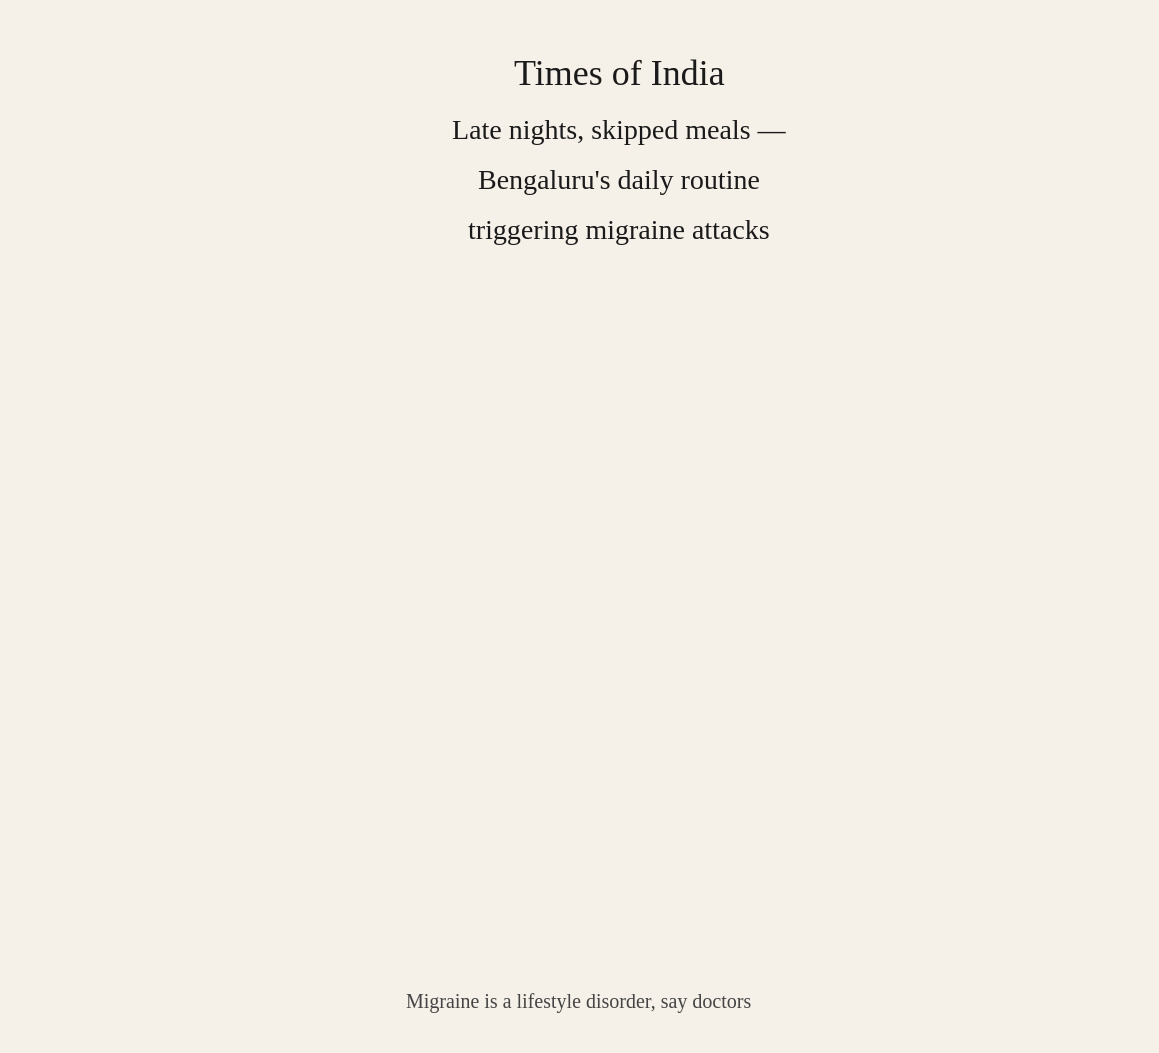
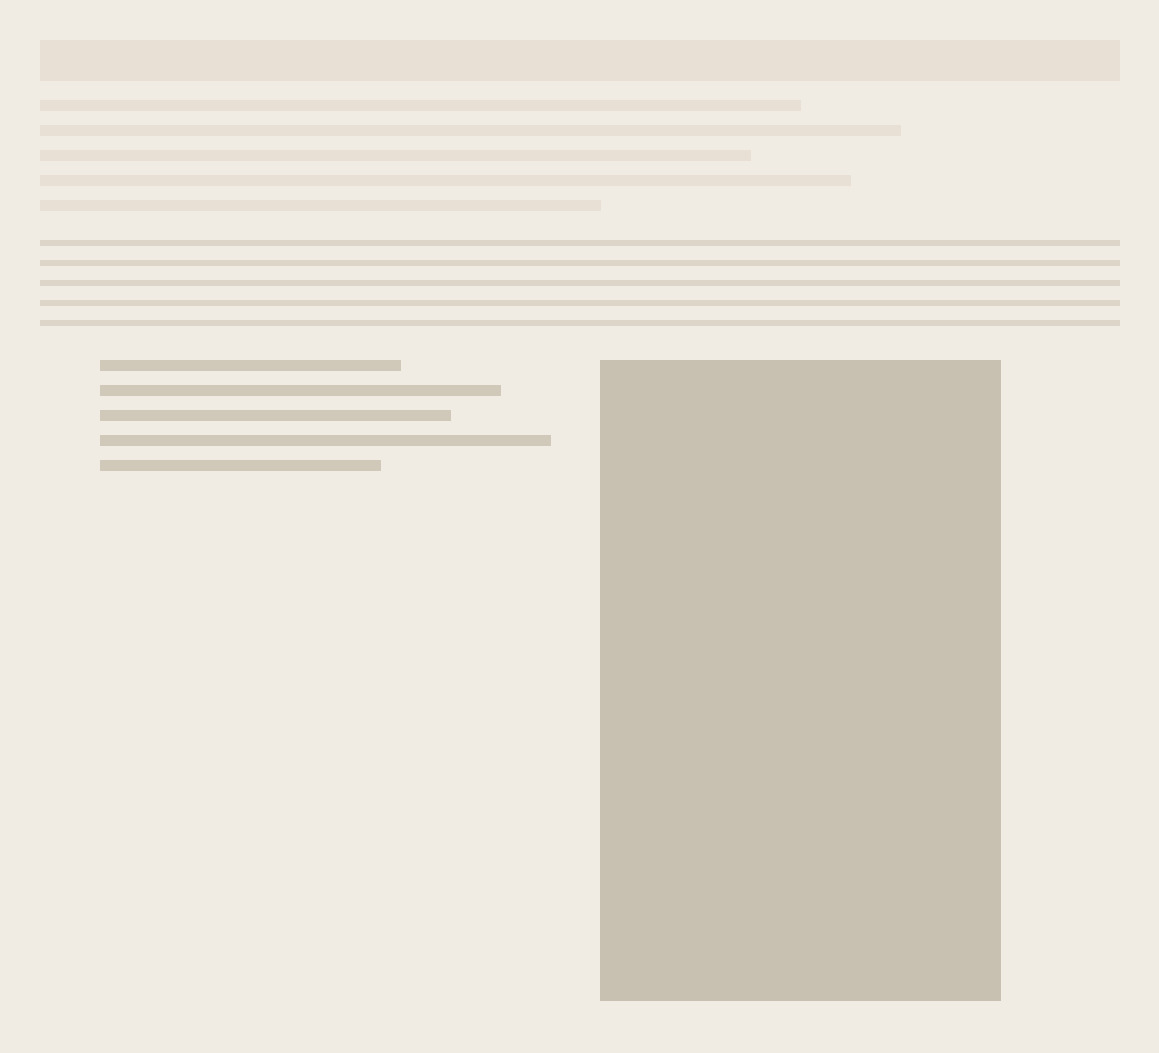
fix: sort articles by date with new migraine article pinned at top, replace placeholder image

Changed region(s): [[0.0311, 0.2127, 0.9629, 0.9725], [0.4038, 0.1216, 0.6523, 0.1823], [0.4349, 0.0608, 0.6212, 0.0912]]

diff --git a/client/pages/Articles.tsx b/client/pages/Articles.tsx
@@ -315,6 +315,31 @@ Doctors recommend lifestyle overhauls — sleep discipline, hydration and stress
   },
 ];
 
+const monthMap: Record<string, number> = {
+  january: 0,
+  february: 1,
+  march: 2,
+  april: 3,
+  may: 4,
+  june: 5,
+  july: 6,
+  august: 7,
+  september: 8,
+  october: 9,
+  november: 10,
+  december: 11,
+};
+function sortVal(d: string) {
+  const p = d.split(" ");
+  if (p.length === 2) return +p[1] * 12 + (monthMap[p[0].toLowerCase()] ?? 0);
+  return +p[0] * 12 + 6;
+}
+articleData.sort((a, b) => {
+  if (a.id === 22) return -1;
+  if (b.id === 22) return 1;
+  return sortVal(b.date) - sortVal(a.date);
+});
+
 const articleImages = articleData.map((a) => ({
   src: a.image,
   caption: a.topic,
